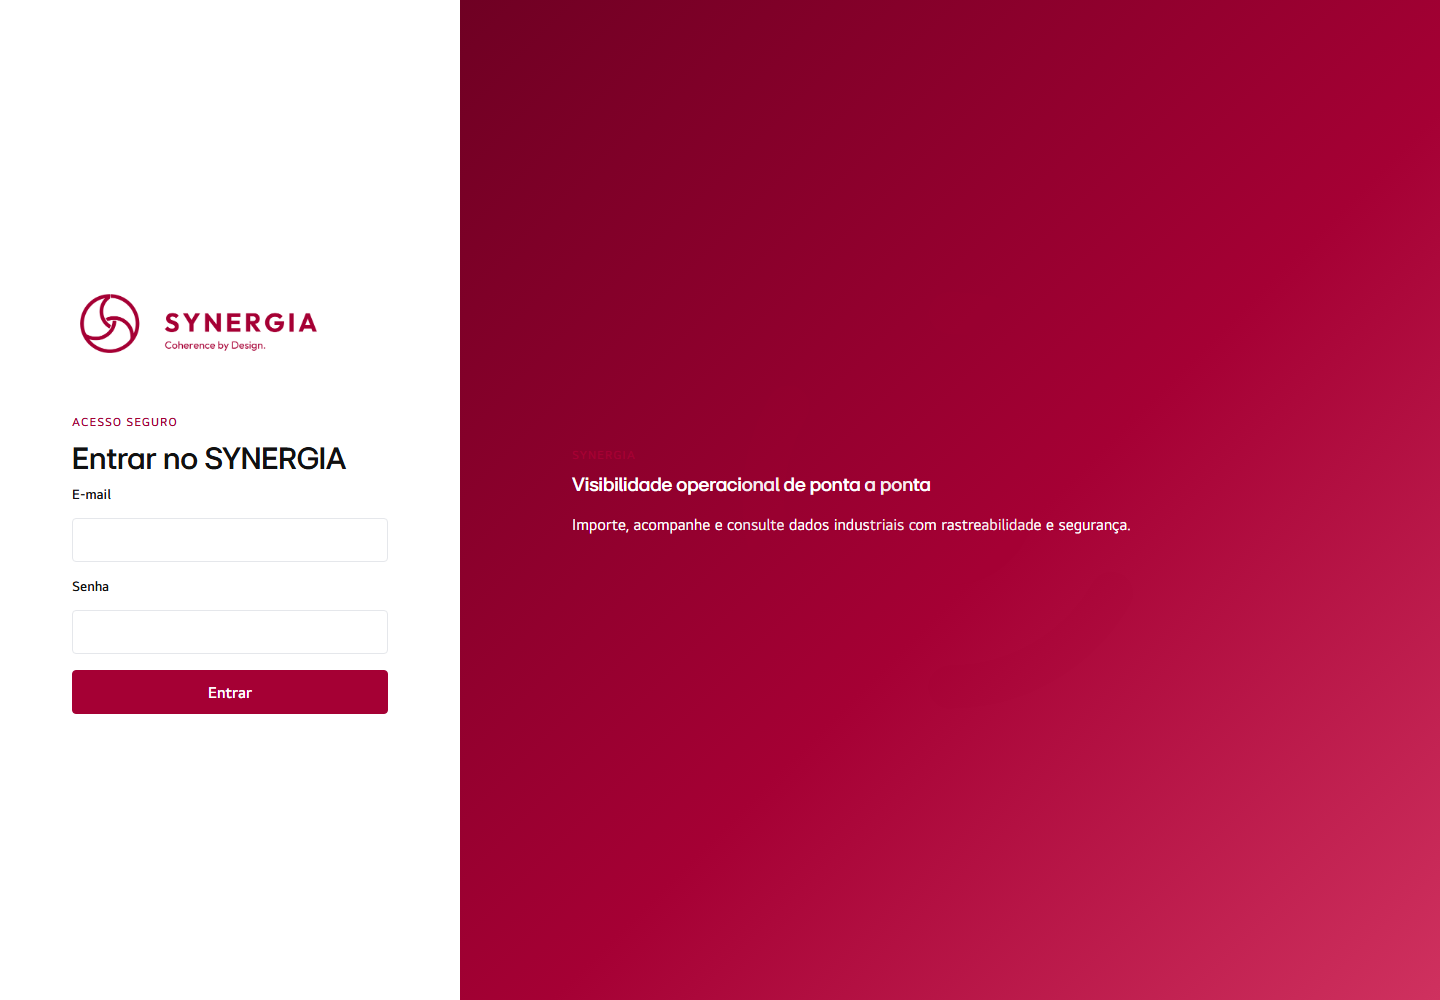
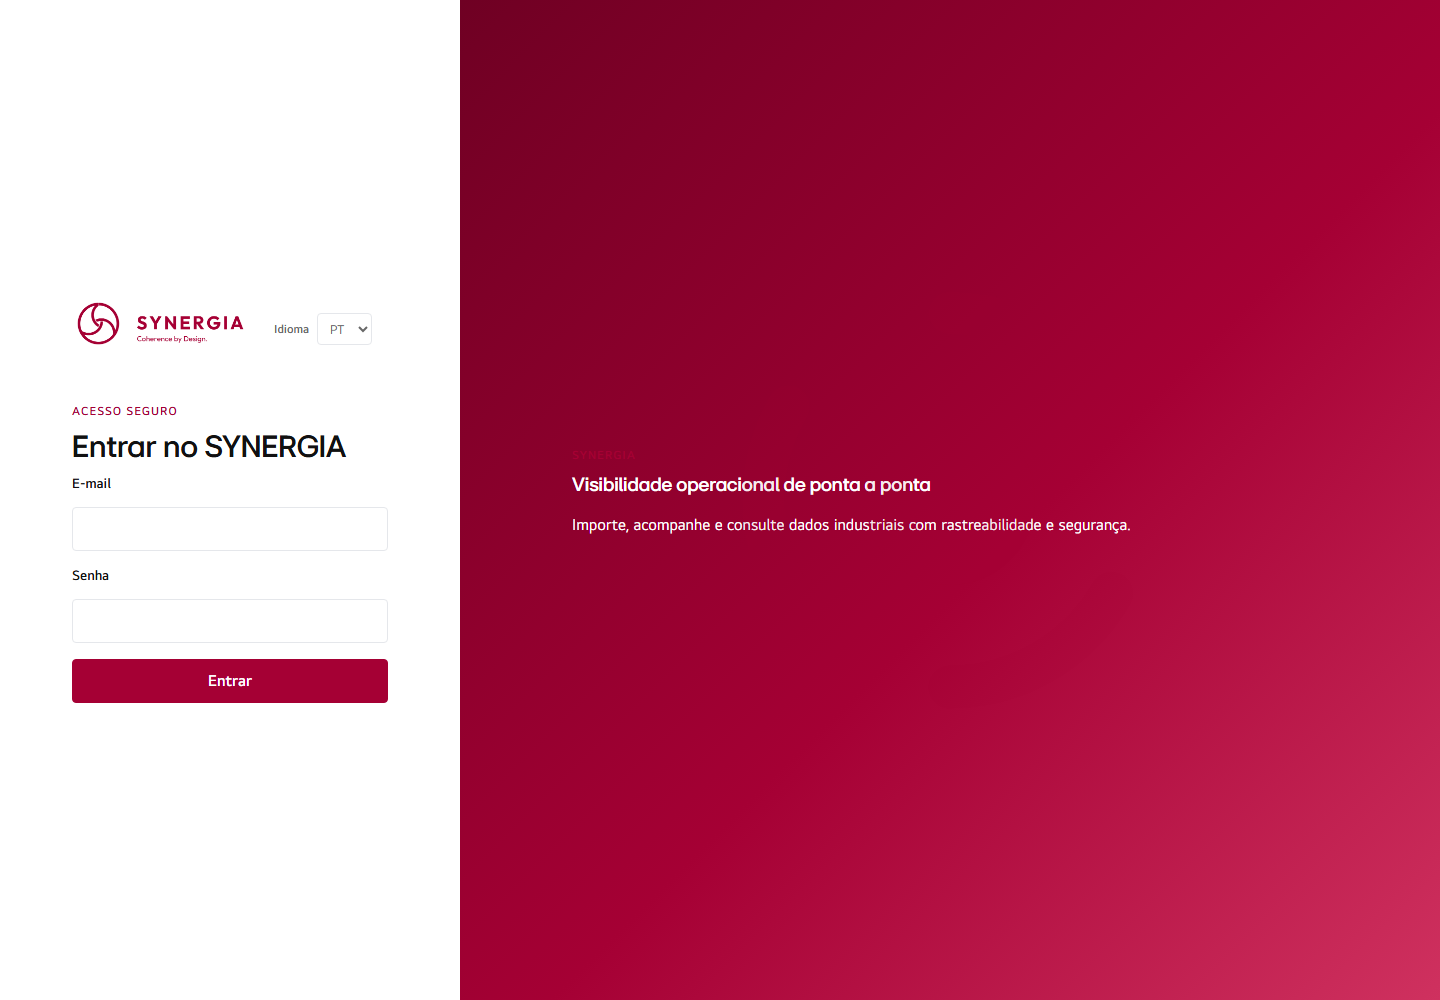
refactor(web): concluir paridade visual das jornadas

diff --git a/web/src/app/domains/executions/execution-detail.component.ts b/web/src/app/domains/executions/execution-detail.component.ts
@@ -18,8 +18,8 @@ const COUNT_KEYS: Record<keyof ExecutionCounts, TranslationKey> = {
 };
 type RecordItem = Divergence|Classification|PendingItem|Evidence;
 @Component({ imports: [RouterLink, NgTemplateOutlet, ConfirmationComponent, PaginationComponent, StateComponent], template: `
-<section class="execution" aria-labelledby="execution-title"><a routerLink="/executions">{{ i18n.t('executions.back') }}</a>
-<p class="eyebrow">{{ i18n.t('executions.eyebrow') }}</p><h1 id="execution-title">{{ i18n.t('executions.detailTitle') }}</h1>
+<section class="execution" aria-labelledby="execution-title"><a class="back-link" routerLink="/executions">← {{ i18n.t('executions.back') }}</a>
+<header class="page-header"><div><p class="eyebrow">{{ i18n.t('executions.eyebrow') }}</p><h1 id="execution-title">{{ i18n.t('executions.detailTitle') }}</h1></div></header>
 @if(loading()){<p role="status">{{ i18n.t('executions.loading') }}</p>}
 @if(loadFailureState(); as state){<syn-state [state]="state" [title]="loadFailureTitle()" [message]="loadFailureMessage()" />}
 @if(item(); as current){
@@ -37,7 +37,7 @@ type RecordItem = Divergence|Classification|PendingItem|Evidence;
   @if(reprocessedId()){<p role="status">{{ i18n.t('executions.reprocessed') }} <a [routerLink]="['/executions',reprocessedId()]">{{ reprocessedId() }}</a></p>}
 }
 @if(confirming()){<syn-confirmation [title]="i18n.t('executions.confirmTitle')" [message]="i18n.t('executions.confirmMessage')" (cancelled)="confirming.set(false)" (confirmed)="reprocess()" />}
-</section>`, styles: ['.execution{display:grid;gap:var(--space-4);max-width:75rem}.partial{border-left:.3rem solid var(--color-partial);padding:var(--space-3)}dl,.metrics{display:grid;grid-template-columns:repeat(auto-fit,minmax(9rem,1fr));gap:var(--space-3)}dt,span{color:var(--color-muted)}dd{margin:0}.tabs,.filters{display:flex;flex-wrap:wrap;gap:var(--space-2)}article{border-bottom:1px solid var(--color-border);padding:var(--space-3) 0}.metrics div{display:grid}.metrics strong{font-size:1.5rem}.records{display:grid;gap:var(--space-2)}'] })
+</section>`, styles: ['.execution{display:grid;gap:var(--space-4);max-width:75rem}.back-link{font-weight:600;text-decoration:none;width:max-content}.page-header{border-bottom:1px solid var(--syn-border);margin-bottom:0;padding-bottom:var(--syn-space-4)}.execution>header.card{border-left:4px solid var(--syn-primary)}.execution>header.card>div:first-child{align-items:center;display:flex;flex-wrap:wrap;gap:var(--syn-space-3);justify-content:space-between}.partial{border-left:.3rem solid var(--color-partial);padding:var(--space-3)}dl,.metrics{display:grid;grid-template-columns:repeat(auto-fit,minmax(9rem,1fr));gap:var(--space-3)}dt,span{color:var(--color-muted)}dd{margin:0}.tabs,.filters{display:flex;flex-wrap:wrap;gap:var(--space-2)}article{border-bottom:1px solid var(--color-border);padding:var(--space-3) 0}.metrics div{background:var(--syn-bg);border-radius:var(--syn-radius);display:grid;padding:var(--syn-space-4)}.metrics strong{color:var(--syn-primary);font-size:1.5rem}.records{display:grid;gap:var(--space-2)}@media(max-width:767px){.execution>header.card>div:first-child{align-items:flex-start;display:grid}.metrics{grid-template-columns:repeat(2,minmax(0,1fr))}}'] })
 export class ExecutionDetailComponent implements OnInit {
  readonly i18n=inject(I18nService); private route=inject(ActivatedRoute); private router=inject(Router); private api=inject(ExecutionService); private session=inject(SessionService);
  readonly tabs=TABS; readonly item=signal<Execution|null>(null); readonly loading=signal(true); readonly failure=signal<ApiFailure|null>(null); readonly tab=signal<ExecutionTab>('summary'); readonly pageData=signal<Page<Divergence|Classification|PendingItem|Evidence>|null>(null); readonly sectionLoading=signal(false); readonly sectionFailure=signal<ApiFailure|null>(null); readonly actionFailure=signal<ApiFailure|null>(null); readonly severity=signal(''); readonly source=signal(''); readonly confirming=signal(false); readonly reprocessedId=signal(''); private id='';

diff --git a/web/src/app/app.component.css b/web/src/app/app.component.css
@@ -1,4 +1,4 @@
 :host{display:block;min-height:100vh}.skip-link{background:var(--syn-primary);color:#fff;left:16px;padding:12px;position:fixed;top:-80px;z-index:40}.skip-link:focus{top:16px}.shell{display:grid;grid-template-columns:var(--syn-sidebar-width) minmax(0,1fr);min-height:100vh}.sidebar{background:var(--syn-bg-sidebar);border-right:1px solid var(--syn-border);display:flex;flex-direction:column;height:100vh;position:sticky;top:0;z-index:20}.brand{align-items:center;border-bottom:1px solid var(--syn-border);display:flex;height:var(--syn-header-height);padding:0 24px}.brand img{height:62px;max-width:100%;object-fit:contain;width:220px}.sidebar nav{display:grid;gap:4px;overflow:auto;padding:24px 12px}.sidebar nav a{align-items:center;border-left:3px solid transparent;border-radius:4px;color:var(--syn-text);display:flex;font-size:14px;font-weight:600;gap:12px;min-height:44px;padding:10px 16px;text-decoration:none}.sidebar nav a:hover,.sidebar nav a.active{background:var(--syn-primary-light);border-left-color:var(--syn-primary);color:var(--syn-primary)}.sidebar nav img{height:20px;width:20px}.main-wrapper{min-width:0}.topbar{align-items:center;background:var(--syn-bg-card);border-bottom:1px solid var(--syn-border);display:flex;height:var(--syn-header-height);justify-content:space-between;padding:0 32px;position:sticky;top:0;z-index:10}.topbar-context{display:grid}.topbar-context strong{color:var(--syn-primary);font-family:LGEIHeadline}.topbar-context span{color:var(--syn-text-secondary);font-size:12px}.account{align-items:center;display:flex;gap:12px}.account .user-name{font-weight:600}.icon-button,.link-button,.menu-button{background:transparent;border-color:transparent;color:var(--syn-text)}.link-button{color:var(--syn-primary)}.menu-button{display:none;font-size:22px;padding:8px}.content{margin:0 auto;max-width:1600px;min-width:0;padding:24px 32px 48px;width:100%}.anonymous-shell{min-height:100vh}.sidebar-overlay{display:none}
 @media(max-width:1365px) and (min-width:1024px){.brand{justify-content:center;padding:0}.brand img{display:none}.brand::before{background:url('/assets/logos/simbolo.png') center/contain no-repeat;content:'';height:44px;width:44px}.sidebar nav a{justify-content:center;padding:10px}.sidebar nav span{display:none}}
-@media(max-width:1023px){.shell{display:block}.sidebar{box-shadow:12px 0 32px rgb(0 0 0/24%);left:calc(-1 * var(--syn-sidebar-width));position:fixed;transition:left var(--syn-transition);width:var(--syn-sidebar-width)}.sidebar.open{left:0}.sidebar-overlay{background:rgb(0 0 0/45%);border:0;border-radius:0;display:block;height:100%;inset:0;position:fixed;width:100%;z-index:15}.menu-button{display:inline-flex}.content{padding:24px}.topbar{padding:0 24px}}
+@media(max-width:1023px){.shell{display:block}.sidebar{left:0;position:fixed;transform:translateX(-100%);transition:transform var(--syn-transition);width:var(--syn-sidebar-width)}.sidebar.open{box-shadow:12px 0 32px rgb(0 0 0/24%);transform:translateX(0)}.sidebar-overlay{background:rgb(0 0 0/45%);border:0;border-radius:0;display:block;height:100%;inset:0;position:fixed;width:100%;z-index:15}.menu-button{display:inline-flex}.content{padding:24px}.topbar{padding:0 24px}}
 @media(max-width:767px){.topbar{height:64px;padding:0 16px}.topbar-context{display:none}.account .user-name{display:none}.content{padding:20px 16px 40px}.link-button{font-size:13px;padding:8px}.sidebar{width:min(280px,88vw)}}

diff --git a/web/src/app/features/profile.component.ts b/web/src/app/features/profile.component.ts
@@ -9,11 +9,14 @@ import { isSupportedLocale } from '../shared/i18n/i18n.models';
 @Component({
   imports: [ReactiveFormsModule],
   template: `
-    <section class="card" aria-labelledby="profile-title">
-      <p class="eyebrow">{{ i18n.t('profile.eyebrow') }}</p>
-      <h1 id="profile-title">{{ i18n.t('profile.title') }}</h1>
+    <section class="profile-page" aria-labelledby="profile-title">
+      <header class="page-header"><div>
+        <p class="eyebrow">{{ i18n.t('profile.eyebrow') }}</p>
+        <h1 id="profile-title">{{ i18n.t('profile.title') }}</h1>
+      </div></header>
       @if (session.profile(); as profile) {
-        <p>{{ profile.emails[0]?.email }}</p>
+        <div class="profile-grid"><section class="card profile-settings">
+        <p class="profile-email">{{ profile.emails[0]?.email }}</p>
         <form [formGroup]="form" (ngSubmit)="save()">
           <label for="profile-display-name">{{ i18n.t('profile.displayName') }}</label>
           <input id="profile-display-name" formControlName="display_name"
@@ -45,7 +48,7 @@ import { isSupportedLocale } from '../shared/i18n/i18n.models';
             {{ i18n.t('profile.save') }}
           </button>
         </form>
-        <div class="avatar-panel">
+        </section><aside class="card avatar-panel">
           <h2>{{ i18n.t('profile.avatarTitle') }}</h2>
           @if (avatarUrl(); as source) {
             <img class="avatar-preview" [src]="source" [alt]="i18n.t('profile.avatarAlt')">
@@ -59,13 +62,21 @@ import { isSupportedLocale } from '../shared/i18n/i18n.models';
               {{ i18n.t('profile.avatarRemove') }}
             </button>
           }
-        </div>
+        </aside></div>
         @if (message()) { <p class="success" role="status">{{ message() }}</p> }
         @if (error()) {
           <p class="error" role="alert">{{ i18n.t('profile.error') }}</p>
         }
       }
-    </section>`
+    </section>`,
+  styles: [`
+    .profile-page{display:grid;gap:var(--syn-space-5);max-width:72rem}
+    .page-header{border-bottom:1px solid var(--syn-border);margin-bottom:0;padding-bottom:var(--syn-space-4)}
+    .profile-grid{display:grid;gap:var(--syn-space-5);grid-template-columns:minmax(0,2fr) minmax(17rem,1fr)}
+    .profile-email{color:var(--syn-text-secondary);margin-bottom:var(--syn-space-5)}
+    .avatar-panel{align-self:start;margin-top:0;text-align:center}.avatar-panel label{text-align:left}.avatar-preview{margin:0 auto var(--syn-space-5)}
+    @media(max-width:767px){.profile-grid{grid-template-columns:1fr}.avatar-panel{order:-1}}
+  `]
 })
 export class ProfileComponent {
   readonly session = inject(SessionService);

diff --git a/web/src/app/domains/executions/execution-search.component.ts b/web/src/app/domains/executions/execution-search.component.ts
@@ -2,7 +2,7 @@ import { Component, inject, signal } from '@angular/core';
 import { Router } from '@angular/router';
 import { I18nService } from '../../shared/i18n/i18n.service';
 
-@Component({ template: `<section class="execution-search" aria-labelledby="execution-search-title"><p class="eyebrow">{{ i18n.t('executions.eyebrow') }}</p><h1 id="execution-search-title">{{ i18n.t('executions.monitorTitle') }}</h1><p>{{ i18n.t('executions.monitorHelp') }}</p><form class="card" (submit)="locate($event)"><label for="execution-id">{{ i18n.t('executions.id') }}</label><input id="execution-id" [value]="id()" (input)="id.set($any($event.target).value)" autocomplete="off"><button [disabled]="!id().trim()">{{ i18n.t('executions.locate') }}</button></form></section>`, styles: ['.execution-search{display:grid;gap:var(--space-4);max-width:48rem}form{display:grid;gap:var(--space-3)}'] })
+@Component({ template: `<section class="execution-search" aria-labelledby="execution-search-title"><header class="page-header"><div><p class="eyebrow">{{ i18n.t('executions.eyebrow') }}</p><h1 id="execution-search-title">{{ i18n.t('executions.monitorTitle') }}</h1><p class="page-subtitle">{{ i18n.t('executions.monitorHelp') }}</p></div></header><form class="card execution-locator" (submit)="locate($event)"><span class="locator-icon" aria-hidden="true">⌕</span><div><label for="execution-id">{{ i18n.t('executions.id') }}</label><input id="execution-id" [value]="id()" (input)="id.set($any($event.target).value)" autocomplete="off"></div><button [disabled]="!id().trim()">{{ i18n.t('executions.locate') }}</button></form></section>`, styles: ['.execution-search{display:grid;gap:var(--space-5);max-width:60rem}.page-header{border-bottom:1px solid var(--syn-border);padding-bottom:var(--syn-space-4)}.execution-locator{align-items:end;display:grid;gap:var(--syn-space-4);grid-template-columns:auto minmax(16rem,1fr) auto}.locator-icon{color:var(--syn-primary);font-size:2rem}@media(max-width:767px){.execution-locator{align-items:stretch;grid-template-columns:1fr}.locator-icon{display:none}}'] })
 export class ExecutionSearchComponent {
   readonly i18n = inject(I18nService); private readonly router = inject(Router); readonly id = signal('');
   locate(event: Event): void { event.preventDefault(); const id = this.id().trim(); if (id) void this.router.navigate(['/executions', id]); }

diff --git a/web/src/app/domains/executions/execution-detail.component.spec.ts b/web/src/app/domains/executions/execution-detail.component.spec.ts
@@ -20,6 +20,7 @@ describe('ExecutionDetailComponent',()=>{
  it('leaves unauthorized failures to the session flow',()=>{api.get.and.returnValue(throwError(()=>failure('unauthorized',401)));const fixture=TestBed.createComponent(ExecutionDetailComponent);fixture.detectChanges();expect(fixture.componentInstance.loadFailureState()).toBeNull();expect(fixture.nativeElement.querySelector('syn-state')).toBeNull();});
  it('shows a reprocessing conflict next to the action on every tab',()=>{api.reprocess.and.returnValue(throwError(()=>failure('conflict',409)));const fixture=TestBed.createComponent(ExecutionDetailComponent);fixture.detectChanges();fixture.componentInstance.reprocess();fixture.detectChanges();expect(fixture.componentInstance.tab()).toBe('history');expect(fixture.nativeElement.textContent).toContain('Reprocessamento não iniciado');expect(fixture.nativeElement.textContent).toContain('processamento incompatível');});
  it('translates technical count keys',()=>{const fixture=TestBed.createComponent(ExecutionDetailComponent);fixture.detectChanges();fixture.componentInstance.selectTab('summary');fixture.detectChanges();expect(fixture.nativeElement.textContent).toContain('Arquivos recebidos');expect(fixture.nativeElement.textContent).not.toContain('files_received');});
+ it('renders the prototype-aligned header and metric surfaces',()=>{const fixture=TestBed.createComponent(ExecutionDetailComponent);fixture.detectChanges();fixture.componentInstance.selectTab('summary');fixture.detectChanges();expect(fixture.nativeElement.querySelector('.page-header')).not.toBeNull();expect(fixture.nativeElement.querySelector('.back-link')).not.toBeNull();expect(fixture.nativeElement.querySelectorAll('.metrics div').length).toBeGreaterThan(0);});
  it('creates a new execution without replacing the original',()=>{const component=TestBed.createComponent(ExecutionDetailComponent).componentInstance;component.ngOnInit();component.reprocess();expect(api.reprocess).toHaveBeenCalledWith('exec-1','web-execution-monitor');expect(component.reprocessedId()).toBe('exec-2');expect(component.item()?.execution_id).toBe('exec-1');});
  function failure(kind:'unauthorized'|'forbidden'|'not-found'|'conflict'|'unavailable',status:number){return {kind,status,code:'review_failure',message:'safe',correlationId:null,fields:[]}}
 });

diff --git a/web/src/app/domains/imports/import-create.component.ts b/web/src/app/domains/imports/import-create.component.ts
@@ -108,10 +108,10 @@ const REJECTION_KEYS: Record<string, TranslationKey> = {
     </section>
   `,
   styles: [`
-    .imports-page{display:grid;gap:var(--space-5);max-width:70rem}.imports-grid{display:grid;gap:var(--space-5);grid-template-columns:minmax(18rem,2fr) minmax(16rem,1fr)}
+    .imports-page{display:grid;gap:var(--space-5);max-width:70rem}.page-header{border-bottom:1px solid var(--syn-border);display:block;margin-bottom:0;padding-bottom:var(--syn-space-4)}.imports-grid{display:grid;gap:var(--space-5);grid-template-columns:minmax(18rem,2fr) minmax(16rem,1fr)}
     .help,.rules,p{color:var(--color-muted)}.rules{align-self:start}.selected-file{display:flex;flex-wrap:wrap;gap:var(--space-2);justify-content:space-between;margin:0}
     .result{border-left:.3rem solid var(--color-info)}progress{accent-color:var(--color-brand);inline-size:100%;min-height:1rem}.button-link{display:inline-block;font-weight:700;margin-top:var(--space-3)}
-    @media(max-width:48rem){.imports-grid{grid-template-columns:1fr}}
+    @media(max-width:48rem){.imports-grid{grid-template-columns:1fr}.rules{order:-1}}
   `]
 })
 export class ImportCreateComponent implements OnInit {

diff --git a/web/src/app/features/login.component.ts b/web/src/app/features/login.component.ts
@@ -56,12 +56,13 @@ export function safeReturnUrl(value: string | null): string {
     <aside class="login-visual" aria-hidden="true"><div><p class="eyebrow">SYNERGIA</p><h2>{{ i18n.t('auth.visualTitle') }}</h2><p>{{ i18n.t('auth.visualMessage') }}</p></div></aside>
     </div>`,
   styles: [`
-    .narrow { position: relative; }
+    .login-form { position: relative; }
+    .login-logo { max-width: 13.75rem; width: 56%; }
     .login-locale { align-items: center; display: flex; gap: var(--space-2); position: absolute; right: var(--space-4); top: var(--space-4); }
     .login-locale label { color: var(--color-muted); display: block; font-size: .75rem; font-weight: 600; }
     .login-locale select { background: transparent; color: var(--color-muted); font-size: .8125rem; min-height: 2rem; padding: var(--space-1) var(--space-2); }
     @media (max-width: 30rem) {
-      .login-locale { position: static; justify-content: flex-end; }
+      .login-locale { position: static; justify-content: flex-end; margin-bottom: var(--space-4); }
     }
   `]
 })

diff --git a/web/src/app/features/login.component.spec.ts b/web/src/app/features/login.component.spec.ts
@@ -68,4 +68,15 @@ describe('LoginComponent', () => {
     expect(logo.getAttribute('alt')).toBe('SYNERGIA');
     expect(visual.getAttribute('aria-hidden')).toBe('true');
   });
+
+  it('anchors the locale selector to the login form on desktop', () => {
+    const fixture = TestBed.createComponent(LoginComponent);
+    fixture.detectChanges();
+
+    const form = fixture.nativeElement.querySelector('.login-form') as HTMLElement;
+    const locale = fixture.nativeElement.querySelector('.login-locale') as HTMLElement;
+    expect(getComputedStyle(form).position).toBe('relative');
+    expect(getComputedStyle(locale).position).toBe('absolute');
+    expect(locale.offsetParent).toBe(form);
+  });
 });

diff --git a/web/src/app/features/profile.component.spec.ts b/web/src/app/features/profile.component.spec.ts
@@ -77,4 +77,13 @@ describe('ProfileComponent', () => {
     expect(session.loadAvatar).toHaveBeenCalled();
     expect(fixture.nativeElement.querySelector('img.avatar-preview')).not.toBeNull();
   });
+
+  it('renders the remodeled profile as separate settings and avatar surfaces', () => {
+    const fixture = TestBed.createComponent(ProfileComponent);
+    fixture.detectChanges();
+
+    expect(fixture.nativeElement.querySelector('.page-header')).not.toBeNull();
+    expect(fixture.nativeElement.querySelector('.profile-settings')).not.toBeNull();
+    expect(fixture.nativeElement.querySelector('.avatar-panel')).not.toBeNull();
+  });
 });

diff --git a/scripts/validate_visual_system.py b/scripts/validate_visual_system.py
@@ -70,7 +70,13 @@ def validate() -> None:
     failures = [pair for pair in checks if _contrast(*pair) < 4.5]
     if failures:
         raise ValueError(f"Contraste AA insuficiente: {failures}")
-    for capture in ("issue-69-login-desktop.png", "issue-69-login-mobile.png"):
+    journeys = ("login", "profile", "import", "execution")
+    viewports = ("desktop", "mobile")
+    for capture in (
+        f"issue-69-{journey}-{viewport}.png"
+        for journey in journeys
+        for viewport in viewports
+    ):
         path = EVIDENCE / capture
         if not path.is_file() or path.stat().st_size < 5_000:
             raise ValueError(f"Captura visual ausente ou inválida: {capture}")

diff --git a/docs/visual-fidelity-matrix.md b/docs/visual-fidelity-matrix.md
@@ -34,13 +34,19 @@ breakpoints e ausência de dependência do runtime congelado. A suíte Angular
 cobre shell autenticado, drawer móvel, foco, modal, componentes semânticos,
 guards, permissões e os fluxos funcionais remodelados.
 
-Capturas reproduzíveis da jornada pública, sem credenciais ou respostas reais:
+Capturas reproduzíveis das jornadas pública e autenticadas. As telas privadas
+foram geradas com conta, organização e execução exclusivamente sintéticas:
 
 - [login desktop, 1440 × 1000](evidence/issue-69-login-desktop.png);
 - [login móvel, 390 × 844](evidence/issue-69-login-mobile.png).
+- [perfil desktop, 1440 × 1000](evidence/issue-69-profile-desktop.png);
+- [perfil móvel, 390 × 844](evidence/issue-69-profile-mobile.png);
+- [importação desktop, 1440 × 1000](evidence/issue-69-import-desktop.png);
+- [importação móvel, 390 × 844](evidence/issue-69-import-mobile.png);
+- [execução desktop, 1440 × 1000](evidence/issue-69-execution-desktop.png);
+- [execução móvel, 390 × 844](evidence/issue-69-execution-mobile.png).
 
-As telas autenticadas devem ser recapturadas no ambiente de homologação com
-dados sintéticos autorizados. Credenciais, tokens e respostas reais não são
-versionados. Um vídeo não faz parte do repositório para evitar a publicação
+Credenciais, tokens e respostas reais não são versionados. Um vídeo não faz
+parte do repositório para evitar a publicação
 acidental de identidade ou dados de sessão; a regressão verificável é mantida
 pelos testes e pelas capturas versionadas acima.
